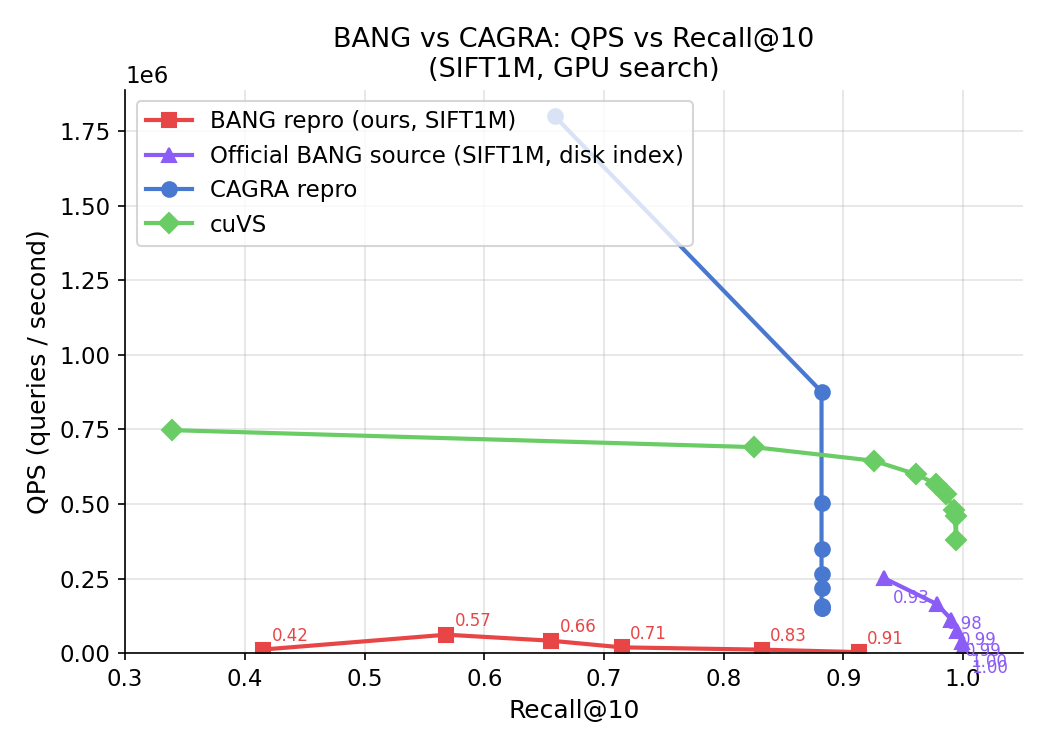
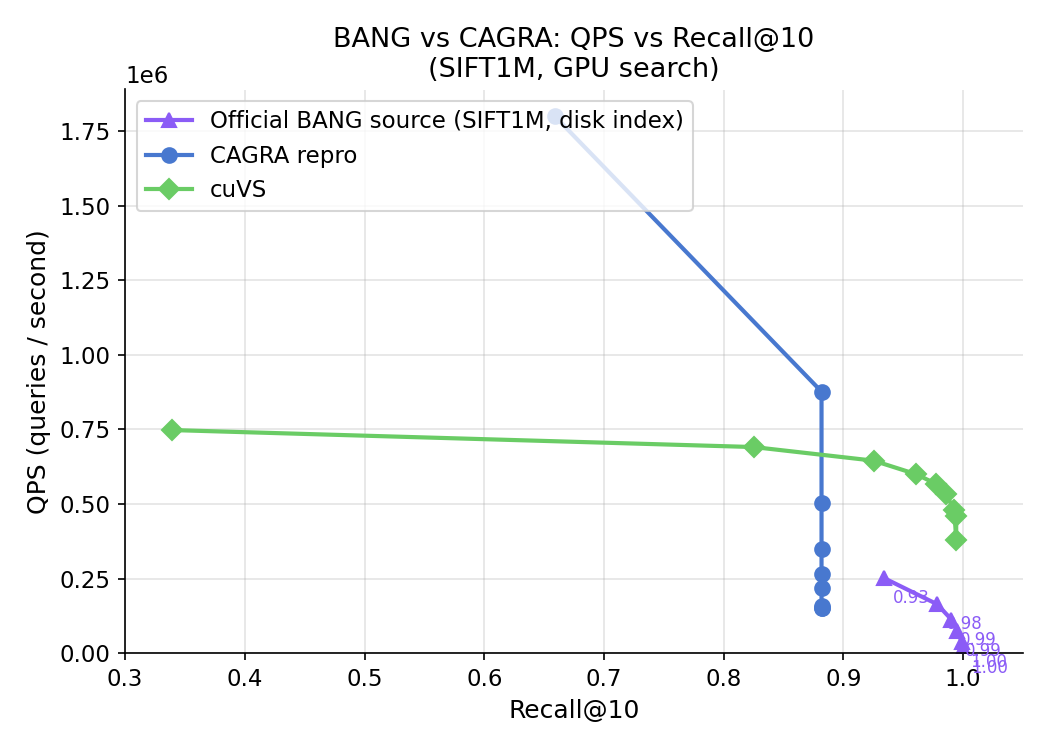
fix: use local CAGRA/cuVS CSVs in results/, revert log scale

diff --git a/bench/plot.py b/bench/plot.py
@@ -361,12 +361,11 @@ def main():
     plot_speedup(search_p, search_e,
                  os.path.join(FIGURES_DIR, "speedup.png"))
 
-    cagra_repro = os.path.join(ROOT, "..", "2024_cagra_repro")
     plot_bang_vs_cagra(
         bang_sweep_path     = os.path.join(RESULTS_DIR, "sift1m_results.csv"),
         official_sweep_path = official_csv,
-        cagra_sweep_path    = os.path.join(cagra_repro, "cagra_sweep.csv"),
-        cuvs_sweep_path     = os.path.join(cagra_repro, "cuvs_sweep.csv"),
+        cagra_sweep_path    = os.path.join(RESULTS_DIR, "cagra_sift1m_sweep.csv"),
+        cuvs_sweep_path     = os.path.join(RESULTS_DIR, "cuvs_sift1m_sweep.csv"),
         out_path            = os.path.join(FIGURES_DIR, "bang_vs_cagra.png"),
     )
 